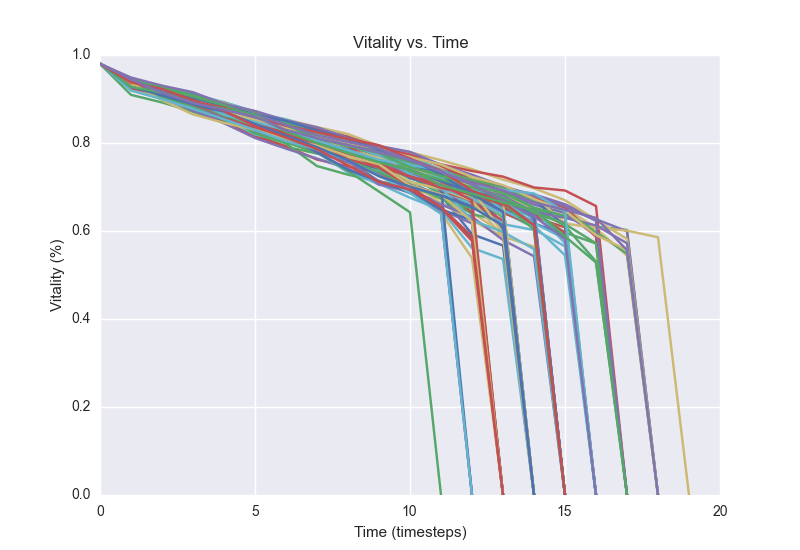
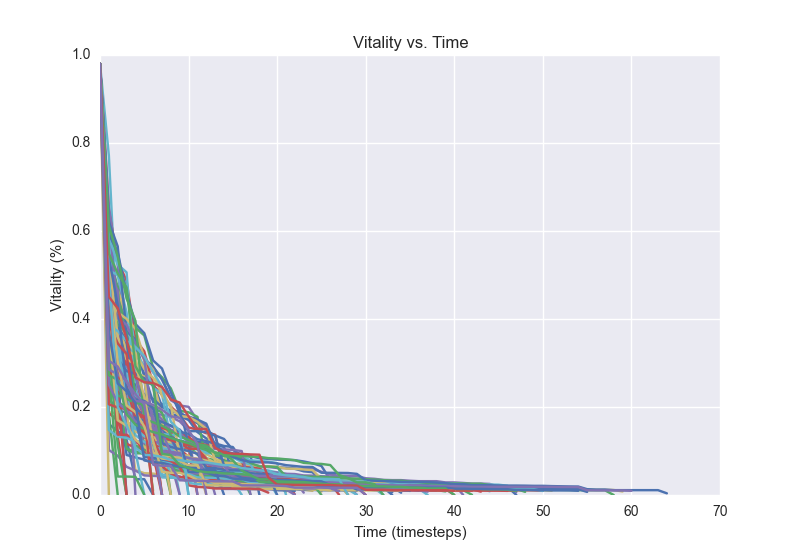
generators fixed

Changed region(s): [[0.125, 0.1236, 0.875, 0.9582], [0.3125, 0.9273, 0.3438, 0.9582]]

diff --git a/wk3/constructGraph.py b/wk3/constructGraph.py
@@ -95,7 +95,7 @@ def createGraph(N,sf):
 						total_deg += 1
 			else:
 				# create dependencies
-				cutoff = 1 / float(len(degrees))
+				cutoff = 0.005
 				for ix, d in enumerate(degrees):
 					if random.random() < cutoff:
 						graph[x].append(ix)
@@ -116,21 +116,18 @@ def createGraph(N,sf):
 		degrees.append(len(graph[x]))
 
 	# get rid of repeats in igraph
+	# make sure graph is completely connected
 	for x in igraph:
 		igraph[x] = list(set(igraph[x]))
-
-
-	# make sure that the graph is completely connected
-	# always completely random -- change later?
-	for elt in igraph:
-		if len(igraph[elt]) == 0:
+		if len(igraph[x]) == 0:
 			node = random.randint(0,N-1)
-			graph[node] = [elt]
-			igraph[elt].append(node)
-			
-	lens = []
-	for x in igraph:
-		lens.append(len(igraph[x]))
-	print lens
+			graph[node] = [x]
+			igraph[x].append(node)
+
+
+	# lens = []
+	# for x in igraph:
+	# 	lens.append(len(igraph[x]))
+	# print lens
 
 	return graph

diff --git a/wk3/mortalityCurve.py b/wk3/mortalityCurve.py
@@ -11,7 +11,7 @@ import collections
 
 def loadData(N,num_trials,sf,sf_str):
 	vitality_data = []
-	csv_filename = './data/'+sf_str[sf]+'_'+str(N)+'_'+str(num_trials)+'.csv'
+	csv_filename = './data_old/'+sf_str[sf]+'_'+str(N)+'_'+str(num_trials)+'.csv'
 	with open(csv_filename, 'rb') as f:
 		reader = csv.reader(f)
 		for row in reader:
@@ -71,8 +71,9 @@ def mortalityRate(N,num_trials,sf,sf_str,vitality_cutoff):
 	plt.ylabel('Mortality Rate')
 	plt.xlabel('Time')
 	ax.set_yscale('log')
+	ax.set_xscale('log')
 
-	plt_filename = './data/'+sf_str[sf]+'_'+str(N)+'_'+str(num_trials)+'_mortalityrate.png'
+	plt_filename = './data_old/'+sf_str[sf]+'_'+str(N)+'_'+str(num_trials)+'_mortalityrate.png'
 	plt.savefig(plt_filename)
 	# plt.show()
 

diff --git a/wk3/age.py b/wk3/age.py
@@ -17,7 +17,7 @@ gamma_0 = 0.01  # failure rate << 1
 gamma_1 = 0 #0.002  # repair rate << 1
 d = 0.02  # initial fraction of nonfunctional nodes
 num_trials = 100  # number of trials to run
-sf = False  # scale-free (T) vs. random (F)
+sf = True  # scale-free (T) vs. random (F)
 sf_str = {True: 'sf', False: 'r'}  # dictionary to map sf attr to string
 
 
